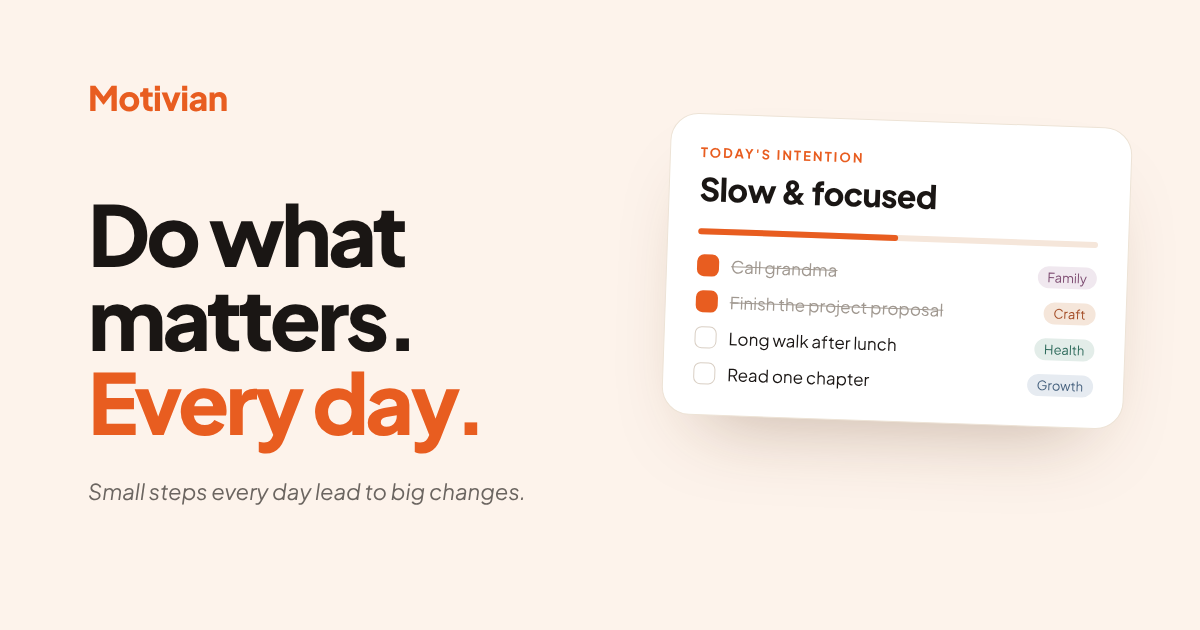
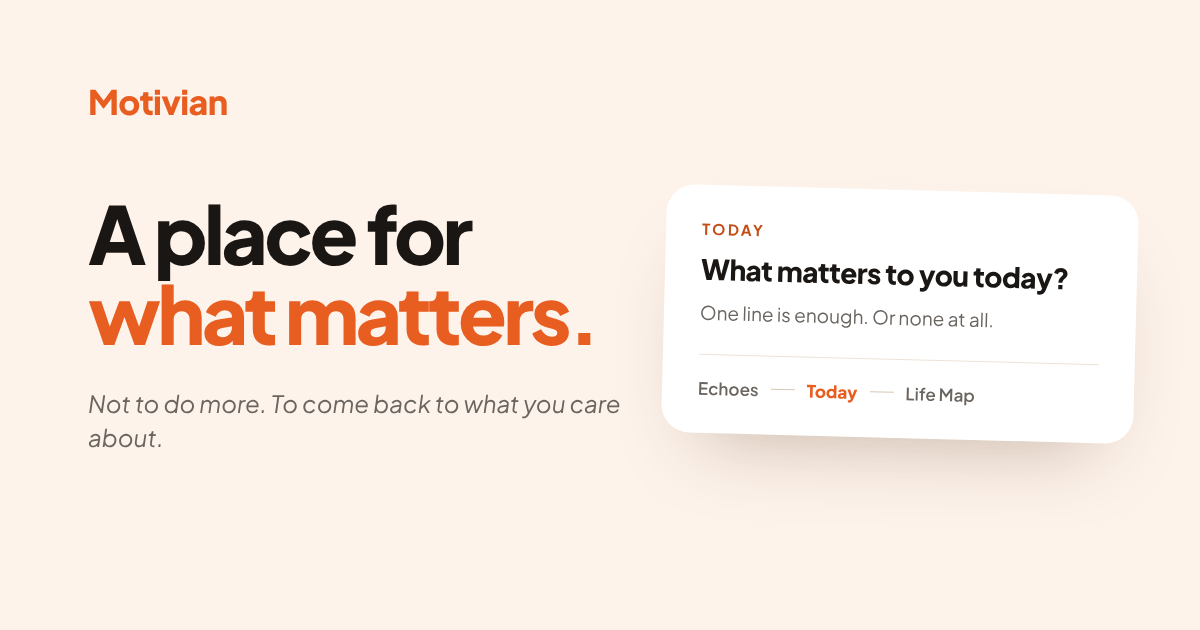
Recenter the landing page on Today: 'A place for what matters'
New hero and share image, a Today-at-the-center section (Echoes, Today,
Life Map), softer Flow copy, a calendar FAQ, and Direction renamed to
Life Map in the mockups.

Claude-Session: https://claude.ai/code/session_019o3wAggkyRL8BDUwAYbxaZ

diff --git a/index.html b/index.html
@@ -3,11 +3,11 @@
 <head>
 <meta charset="utf-8">
 <meta name="viewport" content="width=device-width, initial-scale=1">
-<title>Motivian — Do what matters. Every day.</title>
+<title>Motivian — A place for what matters.</title>
 <meta name="description" content="How we spend our days shapes the life we live. Motivian is a quiet space to start each day with intention, take small steps toward what matters, and look back on what you've lived and learned.">
 <meta property="og:type" content="website">
 <meta property="og:url" content="https://naoto31.github.io/motivian-landing/">
-<meta property="og:title" content="Motivian — Do what matters. Every day.">
+<meta property="og:title" content="Motivian — A place for what matters.">
 <meta property="og:image" content="https://naoto31.github.io/motivian-landing/og.png">
 <meta property="og:image:width" content="1200">
 <meta property="og:image:height" content="630">
@@ -80,8 +80,8 @@ section{padding-left:20px !important;padding-right:20px !important}
 
 <!-- ============ HERO ============ -->
 <section id="top" class="sec hero" style="max-width: 1200px; margin: 0 auto; padding: 72px 32px 48px; text-align: center; display: flex; flex-direction: column; align-items: center; gap: 24px;">
-  <p style="margin: 0; font-size: 15px; font-style: italic; color: #6B6560;">Small steps every day lead to big changes.</p>
-  <h1 style="margin: 0; font-size: 80px; line-height: 1.0; font-weight: 800; letter-spacing: -0.045em;">Do what matters.<br><span style="color: #E85D20;">Every day.</span></h1>
+  <p style="margin: 0; font-size: 15px; font-style: italic; color: #6B6560;">Not to do more. To come back to what you care about.</p>
+  <h1 style="margin: 0; font-size: 80px; line-height: 1.0; font-weight: 800; letter-spacing: -0.045em;">A place for<br><span style="color: #E85D20;">what matters.</span></h1>
   <p style="margin: 0; font-size: 20px; line-height: 1.6; color: #6B6560; max-width: 640px;">How we spend our days shapes the life we live. Motivian is a quiet space to start each day with intention, take small steps toward what matters, and look back on what you've lived and learned.</p>
   <div style="display: flex; flex-direction: column; align-items: center; gap: 6px; width: 100%; margin-top: 8px;">
     <p style="margin: 0 0 6px; font-size: 15px; font-weight: 600; color: #372C22;">Motivian is in early access. Join the waitlist:</p>
@@ -113,7 +113,7 @@ section{padding-left:20px !important;padding-right:20px !important}
         <svg width="18" height="18" viewBox="0 0 24 24" fill="none" stroke="#756454" stroke-width="1.8" stroke-linecap="round" aria-hidden="true"><path d="M4 7h16M4 12h16M4 17h16"></path></svg>
         <span style="font-size: 20px; font-weight: 800; color: #E85D20; letter-spacing: -0.02em;">Motivian</span>
       </div>
-      <span class="hide-m" style="font-size: 12px; font-style: italic; color: #9B8876;">Small steps every day lead to big changes.</span>
+      <span class="hide-m" style="font-size: 12px; font-style: italic; color: #9B8876;">A place for what matters.</span>
       <span style="width: 30px; height: 30px; border-radius: 99px; background: #F7DED1; color: #E85D20; font-size: 13px; font-weight: 800; display: inline-flex; align-items: center; justify-content: center;">A</span>
     </div>
 
@@ -136,7 +136,7 @@ section{padding-left:20px !important;padding-right:20px !important}
           <div style="position: absolute; left: 50%; right: 16.6%; top: 6px; border-top: 2px dashed #F2C9B5;"></div>
           <div style="position: relative; text-align: center;"><span style="display: inline-block; width: 11px; height: 11px; border-radius: 99px; background: #F0B79A;"></span><div style="font-size: 15px; font-weight: 700; margin-top: 4px;">Echoes</div><div style="font-size: 11px; color: #756454;">memories &amp; moments</div></div>
           <div style="position: relative; text-align: center;"><span style="display: inline-block; width: 15px; height: 15px; border-radius: 99px; background: #E85D20; box-shadow: 0 0 0 4px #F7DED1; margin-top: -2px;"></span><div style="font-size: 17px; font-weight: 800; color: #E85D20; margin-top: 2px;">Today</div><div data-today="short" style="font-size: 11px; color: #756454;">Thu, Oct 8</div></div>
-          <div style="position: relative; text-align: center;"><span style="display: inline-block; width: 11px; height: 11px; border-radius: 99px; border: 2px solid #F0B79A; background: #FBF2E6; box-sizing: border-box;"></span><div style="font-size: 15px; font-weight: 700; margin-top: 4px;">Direction</div><div style="font-size: 11px; color: #756454;">why this matters</div></div>
+          <div style="position: relative; text-align: center;"><span style="display: inline-block; width: 11px; height: 11px; border-radius: 99px; border: 2px solid #F0B79A; background: #FBF2E6; box-sizing: border-box;"></span><div style="font-size: 15px; font-weight: 700; margin-top: 4px;">Life Map</div><div style="font-size: 11px; color: #756454;">what matters</div></div>
         </div>
 
         <div class="mock-grid" style="display: grid; grid-template-columns: 1fr 1.55fr 1fr; gap: 16px; align-items: stretch;">
@@ -280,6 +280,41 @@ section{padding-left:20px !important;padding-right:20px !important}
   </div>
 </section>
 
+<!-- ============ CENTER: TODAY ============ -->
+<section id="center" class="sec" style="max-width: 1200px; margin: 0 auto; padding: 128px 32px 24px;">
+  <div style="max-width: 760px; margin: 0 auto 56px; text-align: center;">
+    <div style="font-size: 13px; font-weight: 700; letter-spacing: 0.16em; color: #E85D20; margin-bottom: 14px;">TODAY AT THE CENTER</div>
+    <h2 style="margin: 0 0 18px; font-size: 46px; line-height: 1.1; font-weight: 800; letter-spacing: -0.03em;">Everything comes back<br class="hide-m"> to today.</h2>
+    <p style="margin: 0; font-size: 18px; line-height: 1.65; color: #6B6560;">Your Life Map isn't a plan to follow. Your Echoes aren't a record to keep up. Both are there so today can feel a little more like yours.</p>
+  </div>
+
+  <div class="g3" style="display: grid; grid-template-columns: repeat(3, minmax(0, 1fr)); gap: 20px; align-items: stretch;">
+    <div style="background: #FFFCF7; border: 1px solid #EDE3D6; border-radius: 24px; padding: 32px 28px; display: flex; flex-direction: column; gap: 12px;">
+      <div style="font-size: 12px; font-weight: 700; letter-spacing: 0.14em; color: #6B6560;">FROM THE PAST</div>
+      <div style="font-size: 26px; font-weight: 800; letter-spacing: -0.02em;">Echoes</div>
+      <p style="margin: 0; font-size: 16px; line-height: 1.6; color: #6B6560;">Days you've lived come back now and then — and quietly remind you what you care about.</p>
+      <div style="margin-top: auto; padding-top: 12px; display: flex; align-items: center; gap: 8px; font-size: 14px; font-weight: 600; color: #E85D20;"><span>Notice</span><svg width="18" height="18" viewBox="0 0 24 24" fill="none" stroke="currentColor" stroke-width="2" stroke-linecap="round" stroke-linejoin="round" aria-hidden="true"><path d="M5 12h14M13 6l6 6-6 6"></path></svg><span>Today</span></div>
+    </div>
+    <div style="background: #FFFFFF; border: 2px solid #E85D20; border-radius: 24px; padding: 32px 28px; display: flex; flex-direction: column; gap: 12px; box-shadow: 0 40px 80px -50px rgba(91,52,25,0.4);">
+      <div style="font-size: 12px; font-weight: 700; letter-spacing: 0.14em; color: #E85D20;">THE CENTER</div>
+      <div style="font-size: 32px; font-weight: 800; letter-spacing: -0.02em; color: #E85D20;">Today</div>
+      <p style="margin: 0; font-size: 16px; line-height: 1.6; color: #372C22;">One intention, a few small steps, a short look back in the evening. And on days when none of that happens — today still counts.</p>
+      <div style="margin-top: auto; padding-top: 12px; font-size: 14px; font-style: italic; color: #6B6560;">“What matters to me today?”</div>
+    </div>
+    <div style="background: #FFFCF7; border: 1px solid #EDE3D6; border-radius: 24px; padding: 32px 28px; display: flex; flex-direction: column; gap: 12px;">
+      <div style="font-size: 12px; font-weight: 700; letter-spacing: 0.14em; color: #6B6560;">A DIRECTION</div>
+      <div style="font-size: 26px; font-weight: 800; letter-spacing: -0.02em;">Life Map</div>
+      <p style="margin: 0; font-size: 16px; line-height: 1.6; color: #6B6560;">The places and paths that matter to you, in your own words. A direction to lean into — not a schedule to keep.</p>
+      <div style="margin-top: auto; padding-top: 12px; display: flex; align-items: center; gap: 8px; font-size: 14px; font-weight: 600; color: #E85D20;"><svg width="18" height="18" viewBox="0 0 24 24" fill="none" stroke="currentColor" stroke-width="2" stroke-linecap="round" stroke-linejoin="round" aria-hidden="true"><path d="M19 12H5M11 6l-6 6 6 6"></path></svg><span>Today</span><span style="color: #6B6560; font-weight: 500;">· Remember</span></div>
+    </div>
+  </div>
+
+  <div style="margin: 56px auto 0; max-width: 760px; display: flex; flex-wrap: wrap; justify-content: center; gap: 12px 40px; padding: 24px 28px; border-top: 1px solid #EDE3D6; border-bottom: 1px solid #EDE3D6; text-align: center;">
+    <span style="font-size: 17px; color: #6B6560;">Your calendar knows <strong style="color: #1A1614;">when</strong>.</span>
+    <span style="font-size: 17px; color: #6B6560;">Motivian holds <strong style="color: #E85D20;">why</strong>.</span>
+  </div>
+</section>
+
 <!-- ============ LOOP ============ -->
 <section id="loop" class="sec" style="max-width: 1200px; margin: 0 auto; padding: 128px 32px 112px;">
   <div style="max-width: 760px; margin: 0 auto 56px; text-align: center;">
@@ -416,9 +451,9 @@ section{padding-left:20px !important;padding-right:20px !important}
     <div style="display: flex; flex-wrap: wrap; justify-content: space-between; align-items: flex-end; gap: 32px; margin-bottom: 56px;">
       <div style="max-width: 600px;">
         <div style="font-size: 13px; font-weight: 700; letter-spacing: 0.16em; color: #E85D20; margin-bottom: 14px;">FLOW</div>
-        <h2 style="margin: 0; font-size: 46px; line-height: 1.1; font-weight: 800; letter-spacing: -0.03em;">Intentional — and still<br class="hide-m"> on top of things.</h2>
+        <h2 style="margin: 0; font-size: 46px; line-height: 1.1; font-weight: 800; letter-spacing: -0.03em;">Room for real life,<br class="hide-m"> too.</h2>
       </div>
-      <p style="margin: 0; max-width: 440px; font-size: 18px; line-height: 1.6; color: #6B6560;">Real life still comes with deadlines, errands and appointments. Motivian handles your to-dos properly — so they don't crowd out what matters.</p>
+      <p style="margin: 0; max-width: 440px; font-size: 18px; line-height: 1.6; color: #6B6560;">Deadlines, errands and appointments don't go away. Motivian keeps your to-dos in one calm place — so they have a home, and don't crowd out what matters.</p>
     </div>
 
     <div class="fbox" style="background: #FFFCF7; border: 1px solid #EDE3D6; border-radius: 28px; padding: 24px; box-shadow: 0 40px 80px -50px rgba(91,52,25,0.35); overflow-x: auto;">
@@ -496,8 +531,8 @@ section{padding-left:20px !important;padding-right:20px !important}
       </div>
       <div style="display: flex; flex-direction: column; gap: 10px;">
         <span style="width: 40px; height: 40px; border-radius: 12px; background: #FFFCF7; border: 1px solid #EDE3D6; color: #E85D20; display: inline-flex; align-items: center; justify-content: center;"><svg width="20" height="20" viewBox="0 0 24 24" fill="none" stroke="currentColor" stroke-width="1.9" stroke-linecap="round" stroke-linejoin="round" aria-hidden="true"><path d="M4 20V10M10 20V4M16 20v-7M22 20H2"></path></svg></span>
-        <div style="font-size: 18px; font-weight: 700;">See where your time goes</div>
-        <p style="margin: 0; font-size: 15px; line-height: 1.6; color: #6B6560;">Weekly progress, balance across the days, and steps by Place — a gentle check, not a scoreboard.</p>
+        <div style="font-size: 18px; font-weight: 700;">A gentle look at your week</div>
+        <p style="margin: 0; font-size: 15px; line-height: 1.6; color: #6B6560;">How the week felt, and which places it touched — something to notice, never a scoreboard.</p>
       </div>
     </div>
   </div>
@@ -565,7 +600,7 @@ section{padding-left:20px !important;padding-right:20px !important}
                 <div style="position: absolute; left: 50%; right: 16.6%; top: 4px; border-top: 1.5px dashed #F2C9B5;"></div>
                 <div style="position: relative;"><span style="display: inline-block; width: 8px; height: 8px; border-radius: 99px; background: #F0B79A;"></span><div style="font-size: 10.5px; font-weight: 600;">Echoes</div></div>
                 <div style="position: relative;"><span style="display: inline-block; width: 11px; height: 11px; border-radius: 99px; background: #E85D20; box-shadow: 0 0 0 3px #F7DED1; margin-top: -1.5px;"></span><div style="font-size: 11.5px; font-weight: 800; color: #E85D20;">Today</div><div style="font-size: 8px; color: #756454;">Mon, Oct 12</div></div>
-                <div style="position: relative;"><span style="display: inline-block; width: 8px; height: 8px; border-radius: 99px; border: 1.5px solid #F0B79A; background: #FBF2E6; box-sizing: border-box;"></span><div style="font-size: 10.5px; font-weight: 600;">Direction</div></div>
+                <div style="position: relative;"><span style="display: inline-block; width: 8px; height: 8px; border-radius: 99px; border: 1.5px solid #F0B79A; background: #FBF2E6; box-sizing: border-box;"></span><div style="font-size: 10.5px; font-weight: 600;">Life Map</div></div>
               </div>
               <span style="display: inline-flex; align-items: center; gap: 5px; font-size: 8px; font-weight: 800; letter-spacing: 0.12em; color: #E85D20; background: #F9E1D2; padding: 3px 8px; border-radius: 99px;"><span style="width: 4px; height: 4px; border-radius: 99px; background: #E85D20;"></span>MORNING · INTENTION</span>
               <div style="margin: 6px 0 10px; background: #FFFFFF; border-radius: 14px; padding: 10px 12px; display: flex; align-items: center; gap: 9px; font-size: 12.5px; font-weight: 600;"><span style="flex: none; width: 13px; height: 13px; border-radius: 99px; border: 1.5px solid #D6B89F;"></span>Slow &amp; focused</div>
@@ -763,6 +798,10 @@ section{padding-left:20px !important;padding-right:20px !important}
       <p style="margin: 0; padding: 0 4px 24px; font-size: 16px; line-height: 1.7; color: #6B6560; max-width: 680px;">In the EU (Frankfurt). Your intentions, journal and photos are private to you.</p>
     </details>
     <details style="border-bottom: 1px solid #EDE3D6;">
+      <summary style="display: flex; justify-content: space-between; align-items: center; gap: 16px; padding: 22px 4px; font-size: 18px; font-weight: 700; min-height: 44px;">Does Motivian replace my calendar?<svg class="chev" width="20" height="20" viewBox="0 0 24 24" fill="none" stroke="#E85D20" stroke-width="2" stroke-linecap="round" aria-hidden="true" style="flex: none;"><path d="M12 5v14M5 12h14"></path></svg></summary>
+      <p style="margin: 0; padding: 0 4px 24px; font-size: 16px; line-height: 1.7; color: #6B6560; max-width: 680px;">No — and it isn't meant to. Keep using Google Calendar or Outlook for meetings and appointments. Your calendar knows when; Motivian is where you keep why things matter, and what your days were actually like. There's nothing to connect.</p>
+    </details>
+    <details style="border-bottom: 1px solid #EDE3D6;">
       <summary style="display: flex; justify-content: space-between; align-items: center; gap: 16px; padding: 22px 4px; font-size: 18px; font-weight: 700; min-height: 44px;">Can I use it on my phone?<svg class="chev" width="20" height="20" viewBox="0 0 24 24" fill="none" stroke="#E85D20" stroke-width="2" stroke-linecap="round" aria-hidden="true" style="flex: none;"><path d="M12 5v14M5 12h14"></path></svg></summary>
       <p style="margin: 0; padding: 0 4px 24px; font-size: 16px; line-height: 1.7; color: #6B6560; max-width: 680px;">Yes. Motivian works on the web, and there's a mobile app too — your Life Map, today and your Moments stay in sync between them.</p>
     </details>
@@ -772,7 +811,7 @@ section{padding-left:20px !important;padding-right:20px !important}
 <!-- ============ FINAL CTA ============ -->
 <section class="cta-sec" id="start" style="max-width: 1200px; margin: 0 auto; padding: 0 32px 120px;">
   <div class="cta-box" style="background: #1A1614; color: #FDF3EB; border-radius: 36px; padding: 88px 48px; text-align: center; display: flex; flex-direction: column; align-items: center; gap: 24px;">
-    <p style="margin: 0; font-size: 16px; font-style: italic; color: #CFC6BE;">Small steps every day lead to big changes.</p>
+    <p style="margin: 0; font-size: 16px; font-style: italic; color: #CFC6BE;">Come back anytime. It'll be here.</p>
     <h2 style="margin: 0; font-size: 56px; line-height: 1.06; font-weight: 800; letter-spacing: -0.035em; max-width: 780px;">Live a little more intentionally, <span style="color: #E85D20;">one day at a time.</span></h2>
     <p style="margin: 0; font-size: 18px; line-height: 1.6; color: #CFC6BE; max-width: 520px;">Motivian is still early, and it's being shaped along the way. Join the waitlist and be part of the journey.</p>
     <form class="waitlist" action="#" method="post" style="display: flex; flex-wrap: wrap; gap: 10px; width: 100%; max-width: 480px; justify-content: center;">
